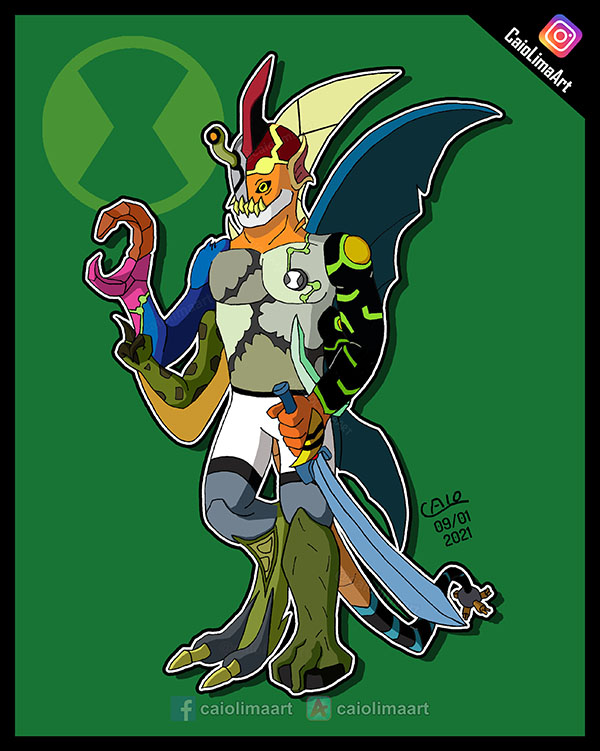
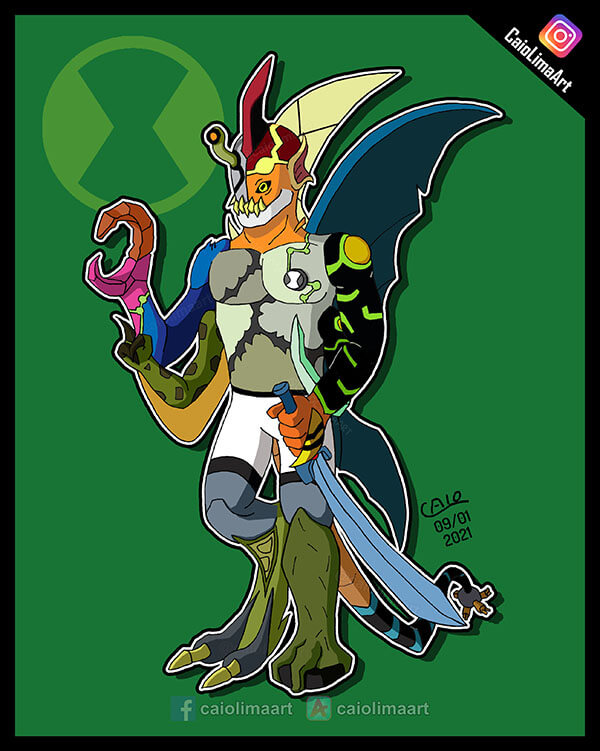
adiciado a fanart do luis.edu05

Changed region(s): [[0.3, 0.4594, 0.33, 0.49]]

diff --git a/fanarts.html b/fanarts.html
@@ -169,6 +169,44 @@
                                 <div class="tab-pane fade show active" id="nav-number-one" role="tabpanel" aria-labelledby="nav-number-one">
 
                                     <div id="fanarts-cards" class="row card-row-one">
+
+                                        <div id="fanart-card" class="col-lg-4 @luis.edu05">
+                        
+                                            <div id="fanart-card-img">
+
+                                                <img src="img/fanarts/luis.edu05-1.jpg" alt="luis.edu05" class="img-fluid">
+
+                                                <div class="author-info" id="author-desktop">
+
+                                                    <div class="text">
+
+                                                        <div>
+                                                            <a href="https://www.instagram.com/luis.edu05/" target="_blank"><img src="img/insta-icon.png" alt="instagram icon"></a>
+                                                        </div>
+                                                        
+                                                        <a href="https://www.instagram.com/luis.edu05/" target="_blank"><p>Luis Eduardo</p></a>
+
+                                                    </div>
+
+                                                </div>
+
+                                                <div id="author-mobile" class="mt-2 mb-1">
+
+                                                    <span>
+
+                                                        <a href="https://www.instagram.com/luis.edu05/" target="_blank"><p class="mr-2">Luis Eduardo</p></a>
+    
+                                                        <div>
+                                                            <a href="https://www.instagram.com/luis.edu05/" target="_blank"><img src="img/icon/insta-icon.png" alt="instagram icon" style="width: 23px;"></a>
+                                                        </div>
+
+                                                    </span>
+    
+                                                </div>
+
+                                            </div>
+                                           
+                                        </div>
  
                                         <div id="fanart-card" class="col-lg-4 @caiolimaart">
 
@@ -202,49 +240,6 @@
                                                             <a href="https://www.instagram.com/p/CJ11MJdJDD-/" target="_blank"><img src="img/icon/insta-icon.png" alt="instagram icon" style="width: 23px;"></a>
         
                                                             <a href="https://aminoapps.com/c/desenhistas-amino-br/page/user/caio-lima-art/YjRL_xJBhWf6nEP811RP3xKnnQvkV4J8BKgHR" target="_blank"><img src="img/icon/amino-desenho-icon.png" alt="amino icon" style="width: 23px;"></a>
-        
-                                                        </div>
-
-                                                    </span>
-    
-                                                </div>
-
-                                            </div>
-                                           
-                                        </div>
-
-                                        <div id="fanart-card" class="col-lg-4">
-                        
-                                            <div id="fanart-card-img">
-
-                                                <img src="img/desafios/exemplo.png" alt="EXEMPLO" class="img-fluid">
-
-                                                <div class="author-info" id="author-desktop">
-
-                                                    <div class="text">
-
-                                                        <div>
-                                                            <!--<a href="#" target="_blank"><img src="img/insta-icon.png" alt="instagram icon"></a>-->
-
-                                                            <!--<a href="#" target="_blank"><img src="img/amino-desenho-icon.png" alt="amino icon"></a>-->
-                                                        </div>
-                                                        
-                                                        <a href="#" target="_blank"><p>NOME AUTOR</p></a>
-
-                                                    </div>
-
-                                                </div>
-
-                                                <div id="author-mobile" class="mt-2 mb-1">
-
-                                                    <span>
-
-                                                        <a href="#" target="_blank"><p class="mr-2">NOME AUTOR</p></a>
-    
-                                                        <div>
-                                                            <!--<a href="#" target="_blank"><img src="img/icon/insta-icon.png" alt="instagram icon"></a>-->
-        
-                                                            <!--<a href="#" target="_blank"><img src="img/icon/amino-desenho-icon.png" alt="amino icon"></a>-->
         
                                                         </div>
 
